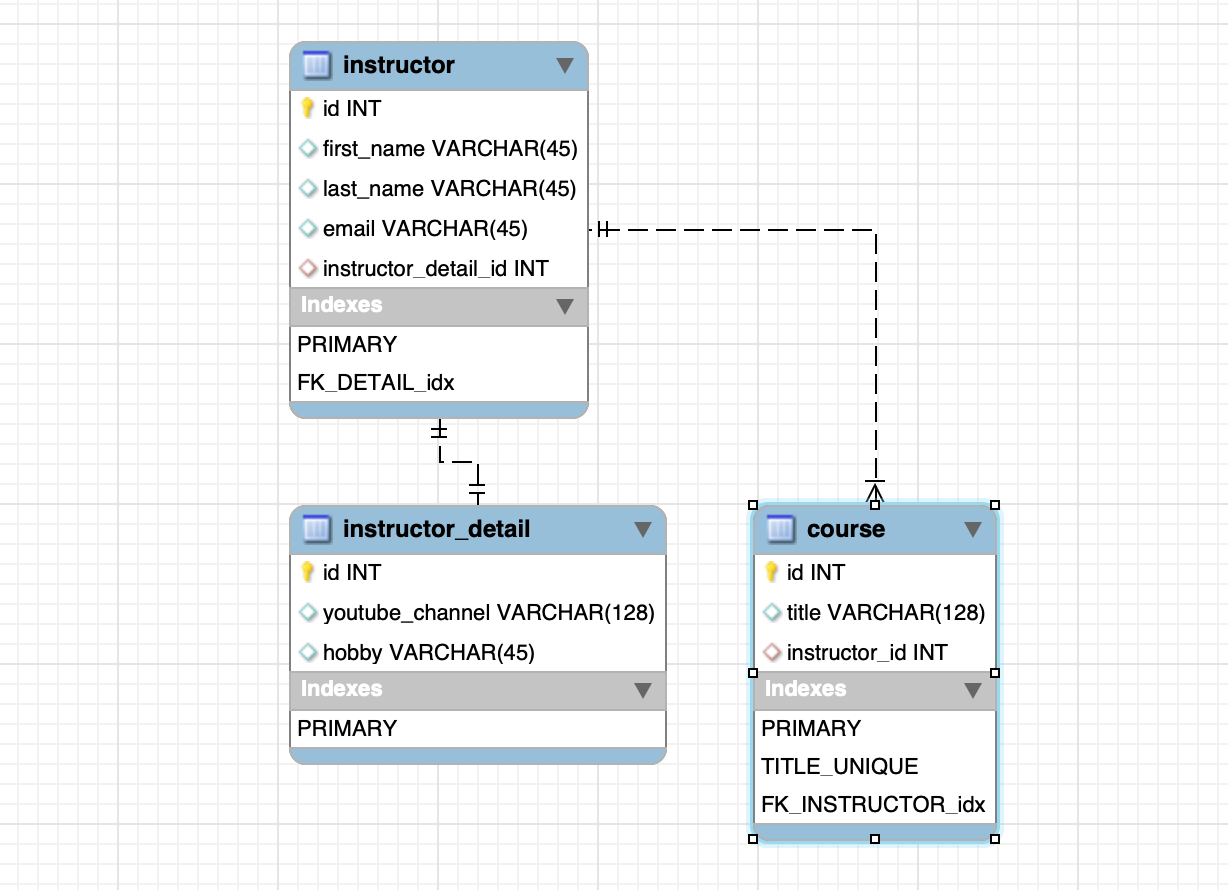
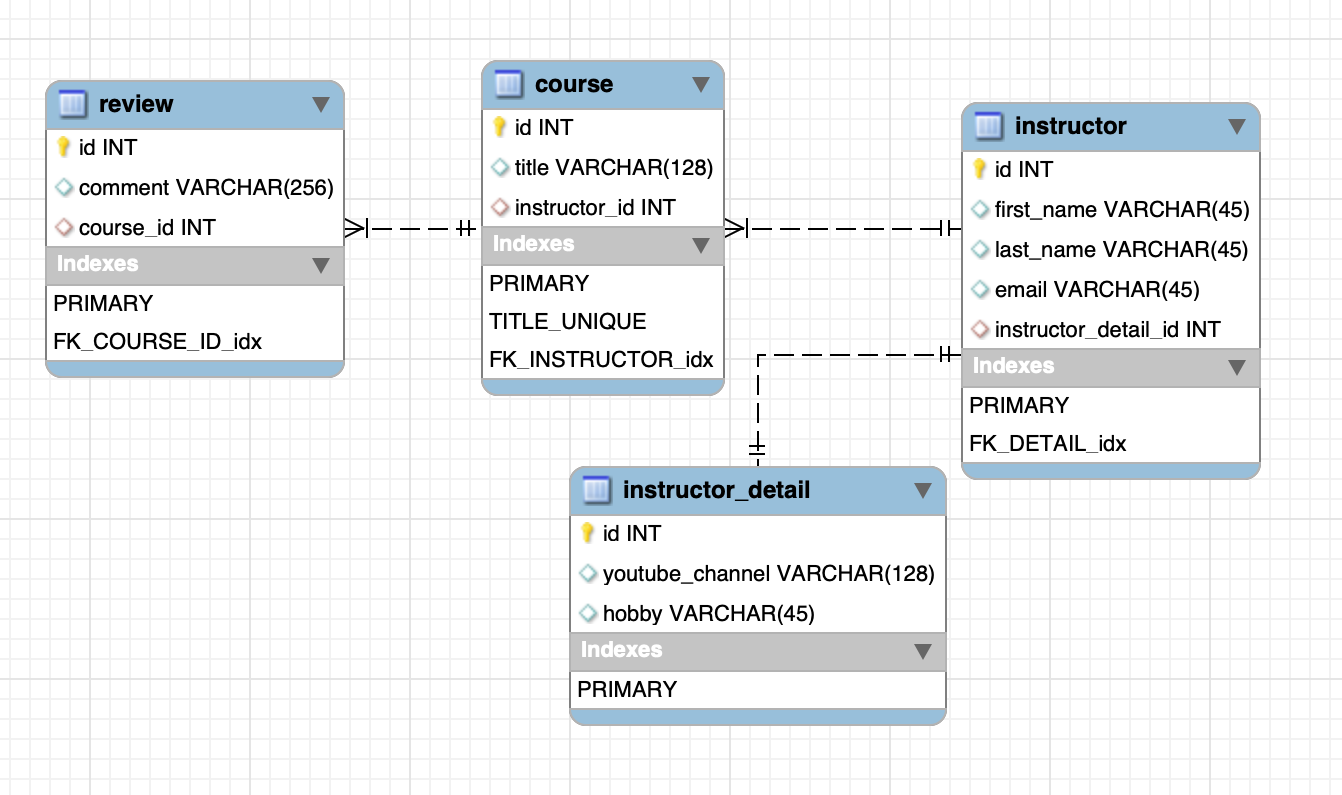
one to many demonstration

Changed region(s): [[0.0309, 0.0302, 0.9593, 0.966], [0.8664, 0.8453, 0.8974, 0.8755], [0.8664, 0.634, 0.8974, 0.6642]]

diff --git a/Hibernate_one_to_many_unidirectional_mapping /src/main/java/com/example/Hibernate_one_to_one_mapping/HibernateOneToOneMappingApplication.java b/Hibernate_one_to_many_unidirectional_mapping /src/main/java/com/example/Hibernate_one_to_one_mapping/HibernateOneToOneMappingApplication.java
@@ -4,6 +4,7 @@ import com.example.Hibernate_one_to_one_mapping.dao.AppDAO;
 import com.example.Hibernate_one_to_one_mapping.entity.Course;
 import com.example.Hibernate_one_to_one_mapping.entity.Instructor;
 import com.example.Hibernate_one_to_one_mapping.entity.InstructorDetail;
+import com.example.Hibernate_one_to_one_mapping.entity.Review;
 import org.springframework.boot.CommandLineRunner;
 import org.springframework.boot.SpringApplication;
 import org.springframework.boot.autoconfigure.SpringBootApplication;
@@ -48,7 +49,57 @@ public class HibernateOneToOneMappingApplication {
 //			 deleteInstructor(appDAO);
 
 //			deleteCourse(appDAO);
+
+//			 createCourseAndReviews(appDAO);
+
+//			 retrieveCourseAndReviews(appDAO);
+
+			deleteCourseAndReviews(appDAO);
 		};
+	}
+
+	private void deleteCourseAndReviews(AppDAO appDAO) {
+
+		int theId = 10;
+
+		System.out.println("Deleting course id: " + theId);
+
+		appDAO.deleteCourseById(theId);
+
+		System.out.println("Done!");
+	}
+
+	private void retrieveCourseAndReviews(AppDAO appDAO) {
+
+		// get the course and reviews
+		int theId = 10;
+		Course tempCourse = appDAO.findCourseAndReviewsByCourseId(theId);
+
+		// print the course
+		System.out.println(tempCourse);
+
+		// print the reviews
+		System.out.println(tempCourse.getReviews());
+	}
+
+	private void createCourseAndReviews(AppDAO appDAO) {
+
+		// create a course
+		Course tempCourse = new Course("Pacman - How To Score One Million Points");
+
+		// add some reviews
+		tempCourse.addReview(new Review("Great course ... loved it!"));
+		tempCourse.addReview(new Review("Cool course, job well done."));
+		tempCourse.addReview(new Review("What a dumb course, you are an idiot!"));
+
+		// save the course ... and leverage the cascade all
+		System.out.println("Saving the course");
+		System.out.println(tempCourse);
+		System.out.println(tempCourse.getReviews());
+
+		appDAO.save(tempCourse);
+
+		System.out.println("Done!");
 	}
 
 	private void deleteCourse(AppDAO appDAO) {

diff --git a/Hibernate_one_to_many_unidirectional_mapping /src/main/java/com/example/Hibernate_one_to_one_mapping/entity/Course.java b/Hibernate_one_to_many_unidirectional_mapping /src/main/java/com/example/Hibernate_one_to_one_mapping/entity/Course.java
@@ -2,6 +2,9 @@ package com.example.Hibernate_one_to_one_mapping.entity;
 
 import jakarta.persistence.*;
 
+import java.util.ArrayList;
+import java.util.List;
+
 @Entity
 @Table(name="course")
 public class Course {
@@ -29,8 +32,20 @@ public class Course {
     @JoinColumn(name="instructor_id")
     private Instructor instructor;
 
+    @OneToMany(fetch = FetchType.LAZY, cascade = CascadeType.ALL)
+    @JoinColumn(name = "course_id")
+    private List<Review> reviews;
+
     public Course() {
 
+    }
+
+    public List<Review> getReviews() {
+        return reviews;
+    }
+
+    public void setReviews(List<Review> reviews) {
+        this.reviews = reviews;
     }
 
     public Course(String title) {
@@ -67,5 +82,16 @@ public class Course {
                 "id=" + id +
                 ", title='" + title + '\'' +
                 '}';
+    }
+
+    // add a convenience method
+
+    public void addReview(Review theReview) {
+
+        if (reviews == null) {
+            reviews = new ArrayList<>();
+        }
+
+        reviews.add(theReview);
     }
 }

diff --git a/Hibernate_one_to_many_unidirectional_mapping /src/main/java/com/example/Hibernate_one_to_one_mapping/entity/Review.java b/Hibernate_one_to_many_unidirectional_mapping /src/main/java/com/example/Hibernate_one_to_one_mapping/entity/Review.java
@@ -1,0 +1,64 @@
+package com.example.Hibernate_one_to_one_mapping.entity;
+
+import jakarta.persistence.*;
+
+@Entity
+@Table(name="review")
+public class Review {
+
+    // define fields
+
+    // define constructors
+
+    // define getter/setters
+
+    // define toString
+
+    // annotate fields
+
+    @Id
+    @GeneratedValue(strategy = GenerationType.IDENTITY)
+    @Column(name="id")
+    private int id;
+
+    @Column(name = "comment")
+    private String comment;
+
+    public Review() {
+
+    }
+
+    public Review(String comment) {
+        this.comment = comment;
+    }
+
+    public int getId() {
+        return id;
+    }
+
+    public void setId(int id) {
+        this.id = id;
+    }
+
+    public String getComment() {
+        return comment;
+    }
+
+    public void setComment(String comment) {
+        this.comment = comment;
+    }
+
+    @Override
+    public String toString() {
+        return "Review{" +
+                "id=" + id +
+                ", comment='" + comment + '\'' +
+                '}';
+    }
+}
+
+
+
+
+
+

diff --git a/Hibernate_one_to_many_unidirectional_mapping /src/main/java/com/example/Hibernate_one_to_one_mapping/dao/AppDAOImpl.java b/Hibernate_one_to_many_unidirectional_mapping /src/main/java/com/example/Hibernate_one_to_one_mapping/dao/AppDAOImpl.java
@@ -134,6 +134,29 @@ public class AppDAOImpl implements AppDAO {
         // delete the course
         entityManager.remove(tempCourse);
     }
+
+    @Override
+    @Transactional
+    public void save(Course theCourse) {
+        entityManager.persist(theCourse);
+    }
+
+    @Override
+    public Course findCourseAndReviewsByCourseId(int theId) {
+
+        // create query
+        TypedQuery<Course> query = entityManager.createQuery(
+                "select c from Course c "
+                        + "JOIN FETCH c.reviews "
+                        + "where c.id = :data", Course.class);
+
+        query.setParameter("data", theId);
+
+        // execute query
+        Course course = query.getSingleResult();
+
+        return course;
+    }
 }
 
 

diff --git a/Hibernate_one_to_many_unidirectional_mapping /src/main/java/com/example/Hibernate_one_to_one_mapping/dao/AppDAO.java b/Hibernate_one_to_many_unidirectional_mapping /src/main/java/com/example/Hibernate_one_to_one_mapping/dao/AppDAO.java
@@ -30,6 +30,10 @@ public interface AppDAO {
     Course findCourseById(int theId);
 
     void deleteCourseById(int theId);
+
+    void save(Course theCourse);
+
+    Course findCourseAndReviewsByCourseId(int theId);
 }
 
 
